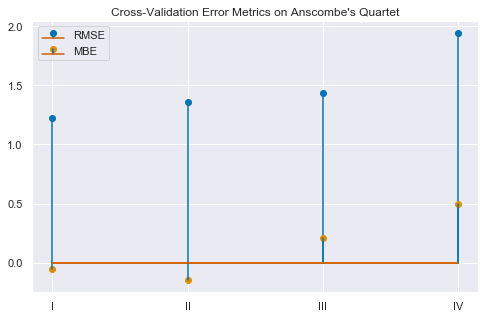
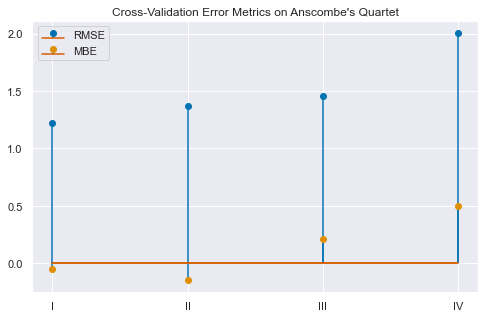
fixed error in RMSE calculation

diff --git a/_posts/2019-11-06-SolvingAnscombesQuartet.md b/_posts/2019-11-06-SolvingAnscombesQuartet.md
@@ -105,17 +105,18 @@ for key in grouped.groups.keys():
         y_pred = fit.predict(X[test_ix])
         residuals.append(y[test_ix] - y_pred)
     residuals = np.concatenate(residuals)
-    hold_out_validation.loc[key] = (np.std(residuals), np.mean(residuals))
+    hold_out_validation.loc[key] = (np.linalg.norm(residuals) / np.sqrt(len(residuals)),
+                                    np.mean(residuals))
 hold_out_validation
 {% endhighlight %}
 
 
 ||rmse|mbe|
 |:---: |:---: |:---: |
-|I|1.222849|-0.050753|
-|II|1.360473|-0.145880|
-|III|1.439326|0.208448|
-|IV|1.944016|0.497576|
+|I|1.223902|-0.050753|
+|II|1.368272|-0.145880|
+|III|1.454342|0.208448|
+|IV|2.006684|0.497576|
 {: .tablelines}
 
 
